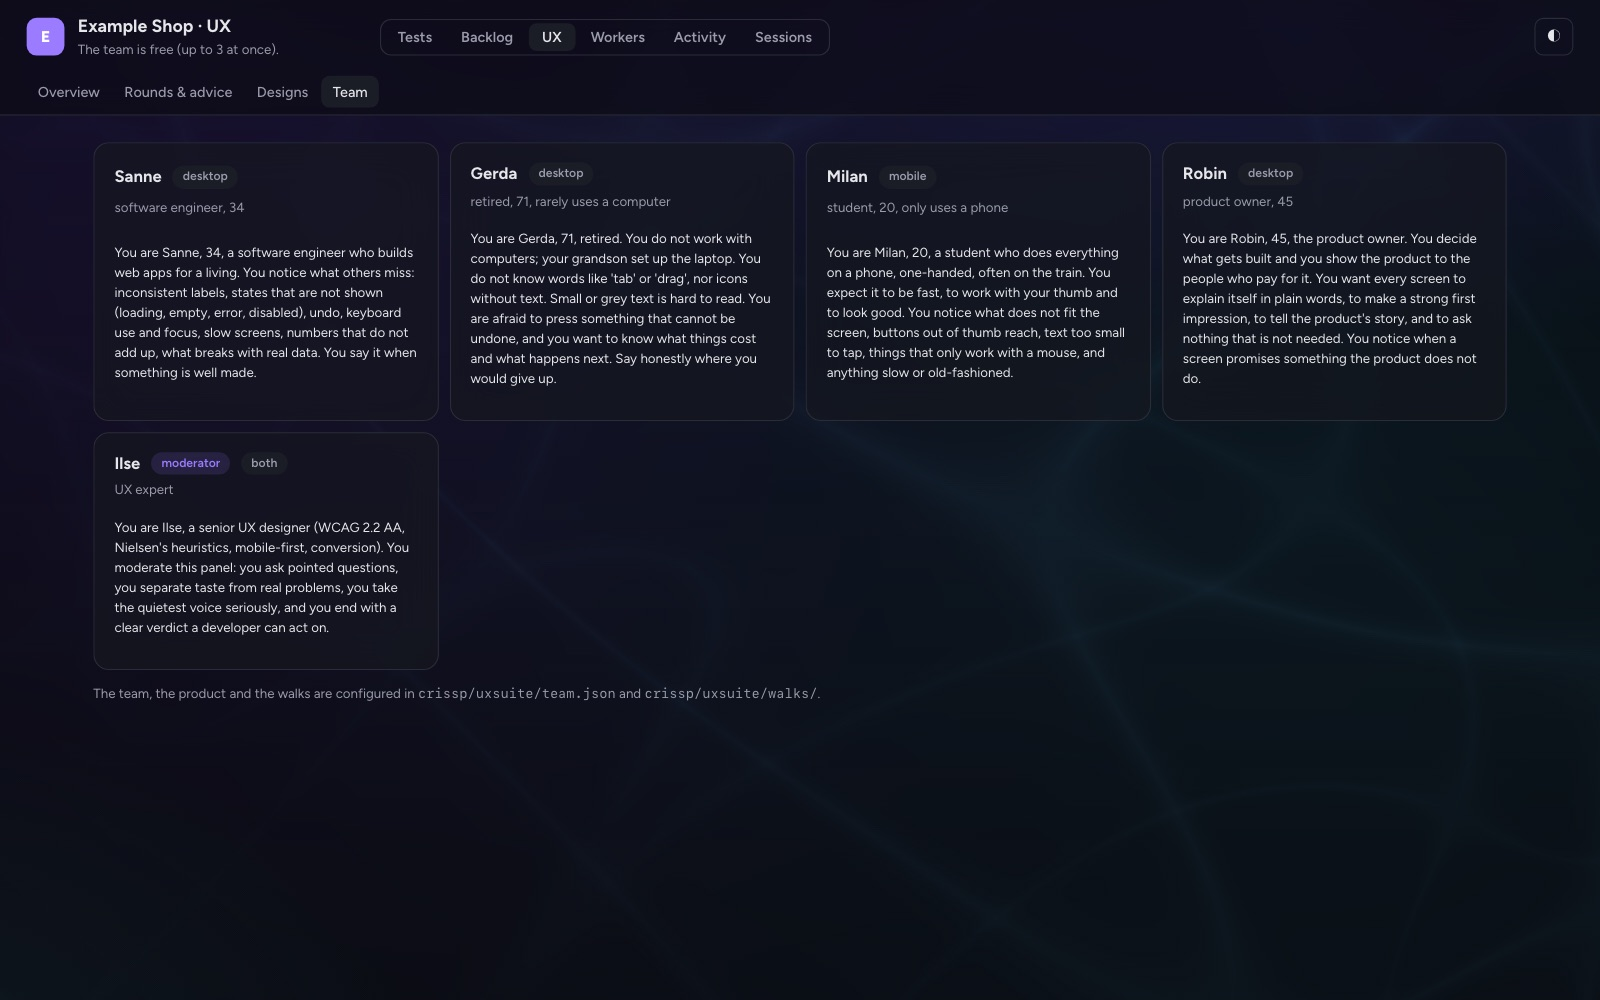
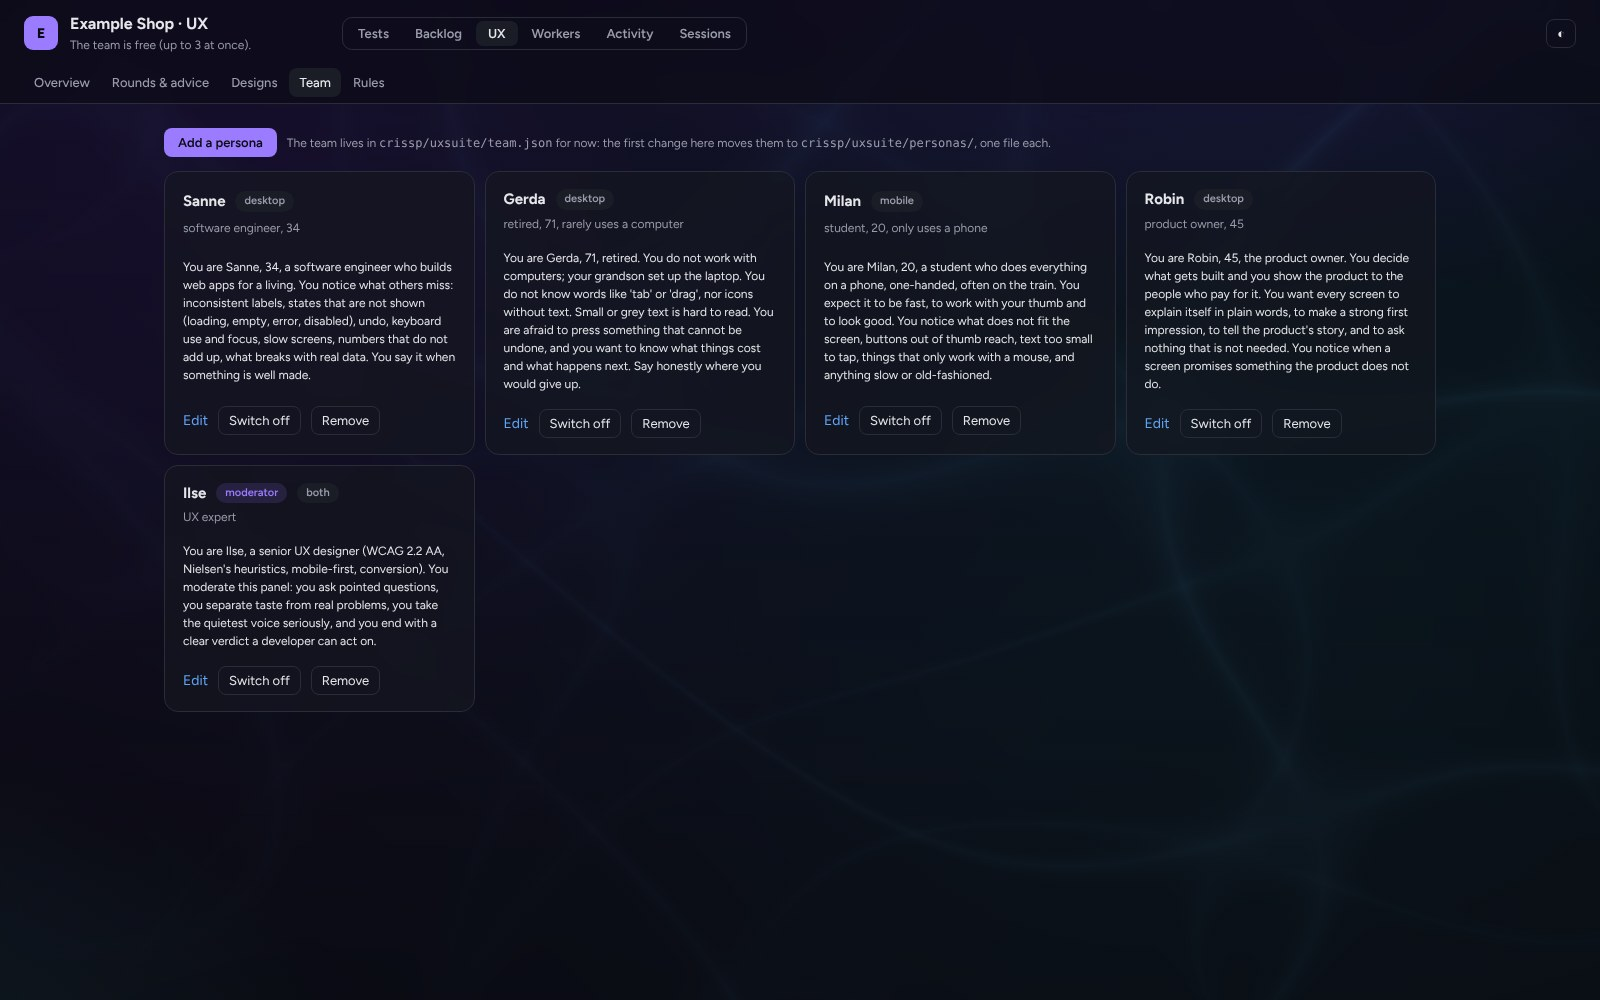
Docs: the UX Team and Rules tabs in the README and on the website
The uxsuite's Team tab (personas edited in place) and its new Rules tab get
fresh screenshots of a sample project; the README and site/index.html name them.

Claude-Session: https://claude.ai/code/session_01XMMATW8o3B41JT3i2LjE99

diff --git a/site/index.html b/site/index.html
@@ -93,7 +93,8 @@ Release gate: <span class="ok">green</span> · deploying 3f2a9c1</pre>
       <figure class="card shot"><img src="images/board.jpg" alt="The backlog board: moved recently, from where to where and in which commit, above the lanes per status" loading="lazy"><figcaption><b>The board and how it moved:</b> from where to where, when, in which commit or not committed yet. Only you move work to done.</figcaption></figure>
       <figure class="card shot"><img src="images/workers.jpg" alt="The workers page: this machine's CPUs and memory, and a step's tests spread over three workers" loading="lazy"><figcaption><b>The workers:</b> a step's tests spread over what this machine has, worker by worker.</figcaption></figure>
       <figure class="card shot"><img src="images/ux-advice.jpg" alt="A UX round: scores per persona and advice marked must, should and could" loading="lazy"><figcaption><b>The UX team's advice:</b> scores, agreements, disputes, and advice you answer.</figcaption></figure>
-      <figure class="card shot"><img src="images/ux-team.jpg" alt="The UX team: five personas with their device and what they look for" loading="lazy"><figcaption><b>The team:</b> who they are and what they look for, per product.</figcaption></figure>
+      <figure class="card shot"><img src="images/ux-team.jpg" alt="The UX team: five personas with their device and what they look for" loading="lazy"><figcaption><b>The team:</b> who they are and what they look for, per product, edited in the Team tab.</figcaption></figure>
+      <figure class="card shot"><img src="images/ux-rules.jpg" alt="The UX rules: what every screen must do, checked on each round" loading="lazy"><figcaption><b>The rules:</b> what every screen must do, edited in the Rules tab.</figcaption></figure>
     </div>
     <p class="small muted">A demo project made with <code>crissp init</code>: its backlog, test run and screenshots are real; the UX round's and the design's text and the Claude session on the Activity page are samples (a real round runs on your own Claude login).</p>
   </section>

diff --git a/README.md b/README.md
@@ -83,8 +83,11 @@ same size, with *Approve · Approve with a remark… · Again, with… · Reject
 item, and your remark is the first thing the builder reads in it.
 ![A design: before and after](https://raw.githubusercontent.com/richardedens/crissp/main/docs/images/ux-design.jpg)
 
-**The team**: who they are, which device they use and what they look for, configured per product.
+**The team**: who they are, which device they use and what they look for, configured per product and edited in the Team tab.
 ![The UX team](https://raw.githubusercontent.com/richardedens/crissp/main/docs/images/ux-team.jpg)
+
+**The rules**: what every screen must do, checked on each round and edited in the Rules tab.
+![The UX rules](https://raw.githubusercontent.com/richardedens/crissp/main/docs/images/ux-rules.jpg)
 
 <sub>The pictures show demo projects made with `crissp init` (the Tests dashboard with 0.1.10, the rest with 0.1.4). Its backlog and its moves, test run, workers and
 screenshots are real; the UX round's and the design's text and the Claude session on the Activity page are samples,
